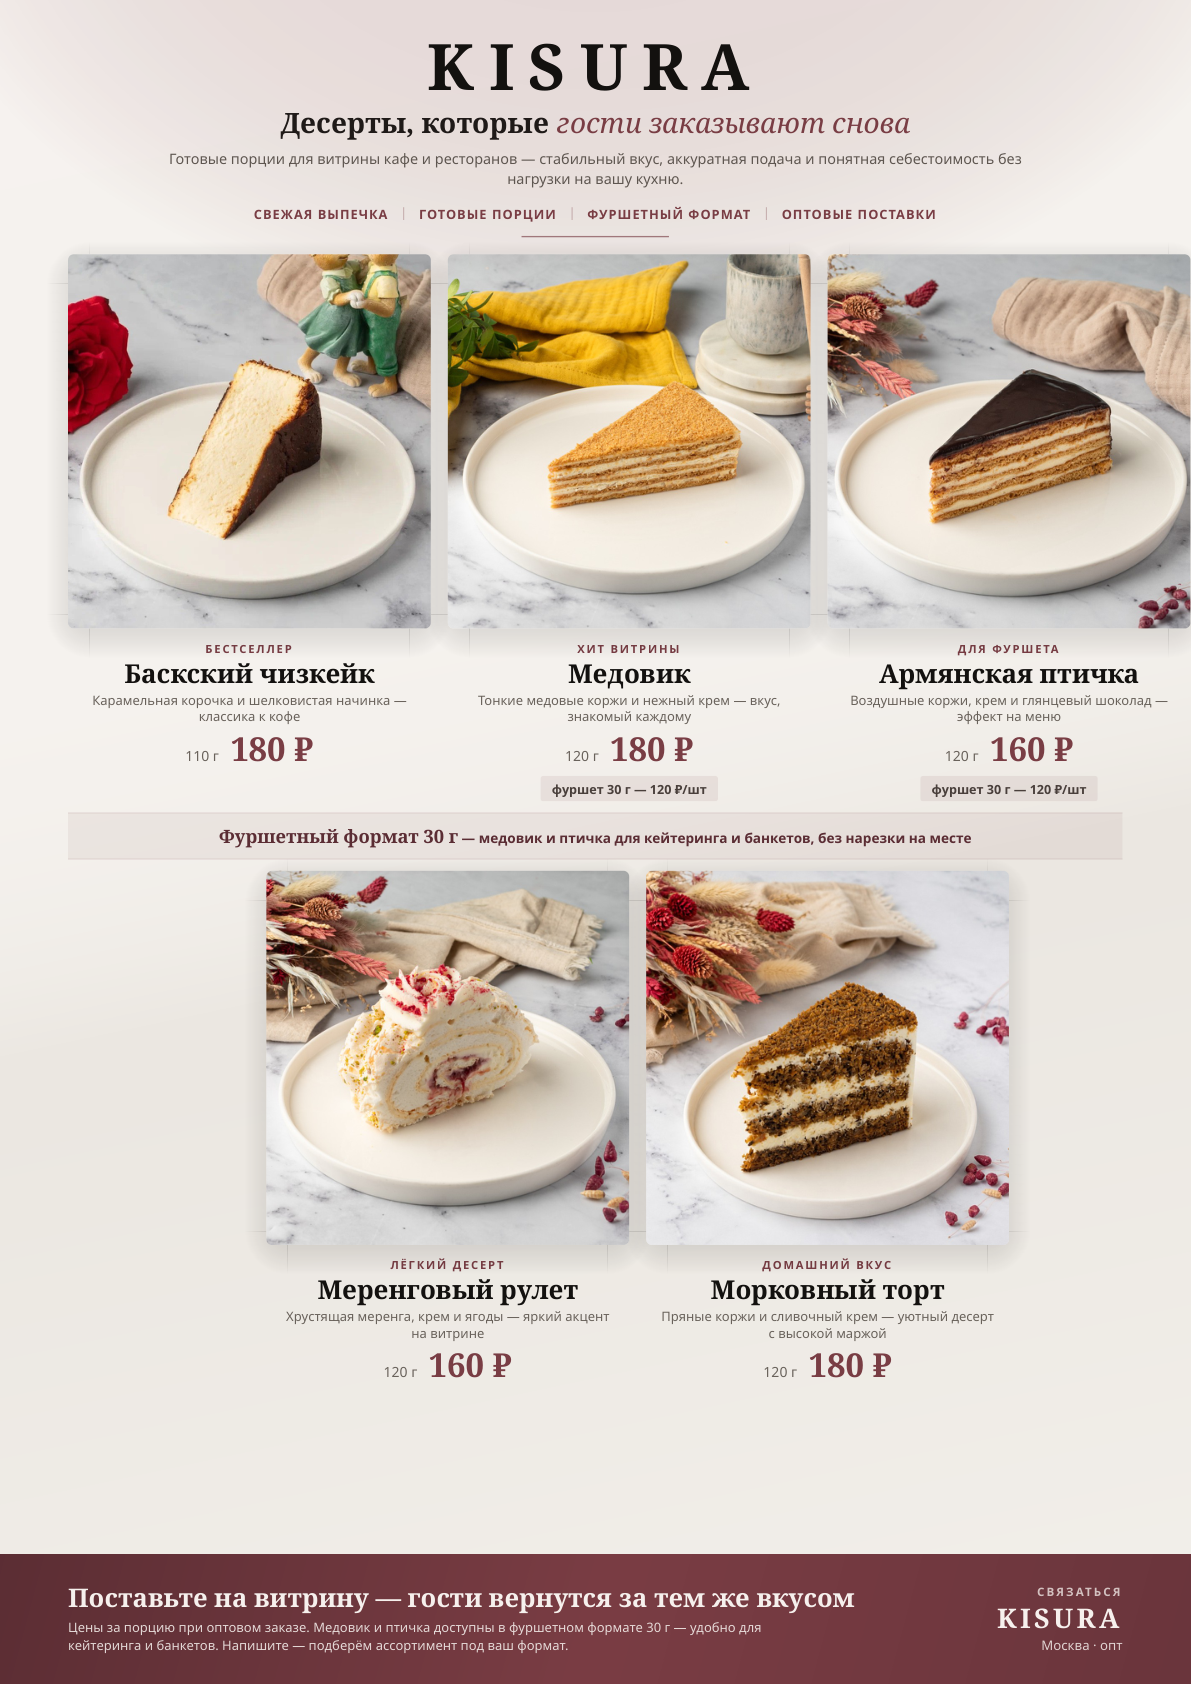
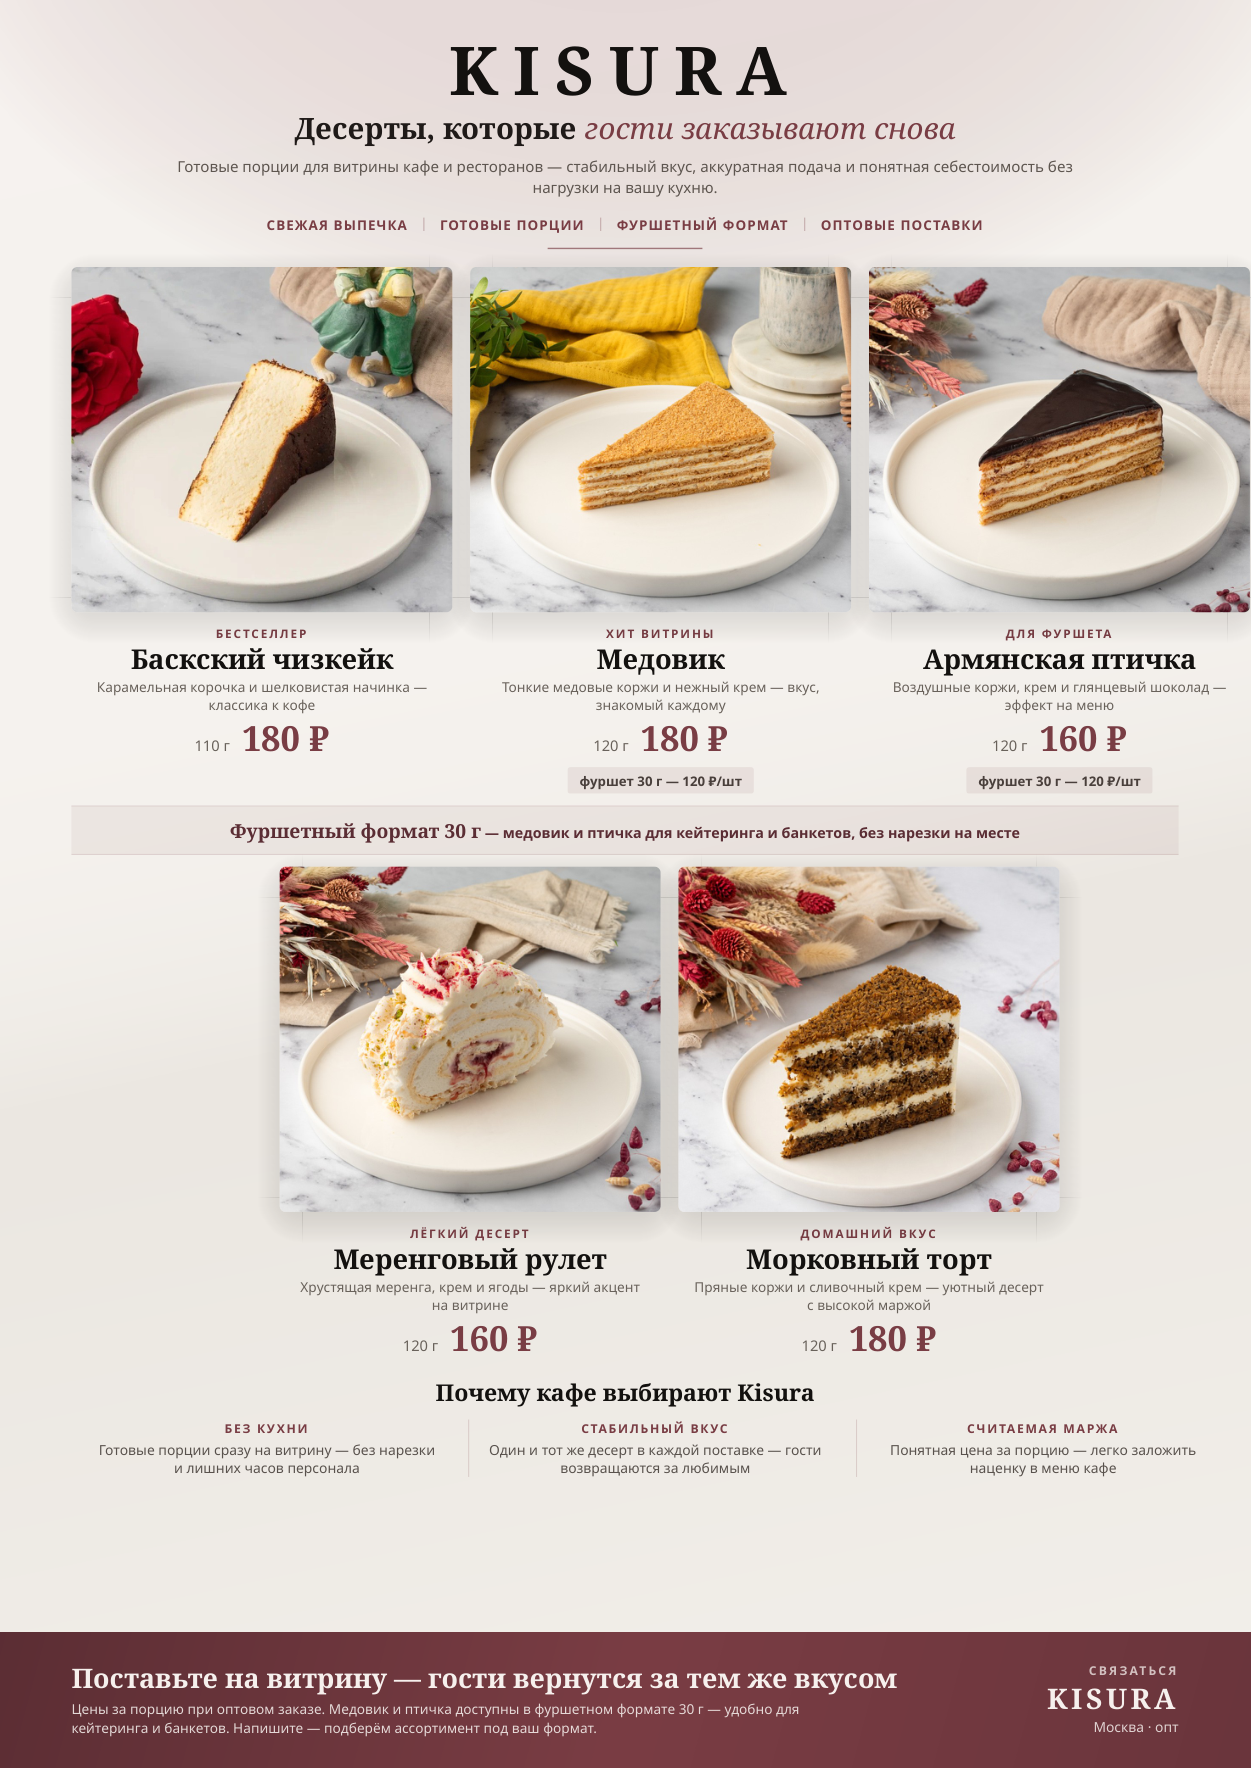
Add B2B value props to wholesale price list
Fill the page with a selling benefits strip and keep the denser
one-page catalog with appetizing copy and CTA footer.

diff --git a/wholesale-price-list/price-list.html b/wholesale-price-list/price-list.html
@@ -144,7 +144,7 @@
 
     .photo {
       width: 100%;
-      height: 66mm;
+      height: 58mm;
       object-fit: cover;
       object-position: center 42%;
       display: block;
@@ -241,6 +241,53 @@
 
     .bottom-row td.spacer { width: 16.66%; }
     .bottom-row td.item { width: 33.33%; }
+
+    .why {
+      margin: 1mm 2mm 3mm;
+      text-align: center;
+    }
+
+    .why-title {
+      font-family: "Cormorant Garamond", serif;
+      font-weight: 700;
+      font-size: 11pt;
+      color: #14110f;
+      margin-bottom: 2mm;
+    }
+
+    .why-table {
+      width: 100%;
+      border-collapse: separate;
+      border-spacing: 2.5mm 0;
+      table-layout: fixed;
+    }
+
+    .why-table td {
+      width: 33.33%;
+      vertical-align: top;
+      text-align: center;
+      padding: 0 3mm;
+    }
+
+    .why-table td + td {
+      border-left: 0.45pt solid rgba(122, 61, 68, 0.2);
+    }
+
+    .why-label {
+      font-size: 5.8pt;
+      font-weight: 700;
+      letter-spacing: 0.14em;
+      text-transform: uppercase;
+      color: #7a3d44;
+      margin-bottom: 0.8mm;
+    }
+
+    .why-text {
+      font-size: 6.6pt;
+      line-height: 1.3;
+      color: #5a534e;
+      font-weight: 500;
+    }
 
     .cta {
       position: absolute;
@@ -369,6 +416,26 @@
         <td class="spacer"></td>
       </tr>
     </table>
+
+    <section class="why">
+      <div class="why-title">Почему кафе выбирают Kisura</div>
+      <table class="why-table">
+        <tr>
+          <td>
+            <div class="why-label">Без кухни</div>
+            <div class="why-text">Готовые порции сразу на витрину — без нарезки и лишних часов персонала</div>
+          </td>
+          <td>
+            <div class="why-label">Стабильный вкус</div>
+            <div class="why-text">Один и тот же десерт в каждой поставке — гости возвращаются за любимым</div>
+          </td>
+          <td>
+            <div class="why-label">Считаемая маржа</div>
+            <div class="why-text">Понятная цена за порцию — легко заложить наценку в меню кафе</div>
+          </td>
+        </tr>
+      </table>
+    </section>
 
     <footer class="cta">
       <table class="cta-table">
